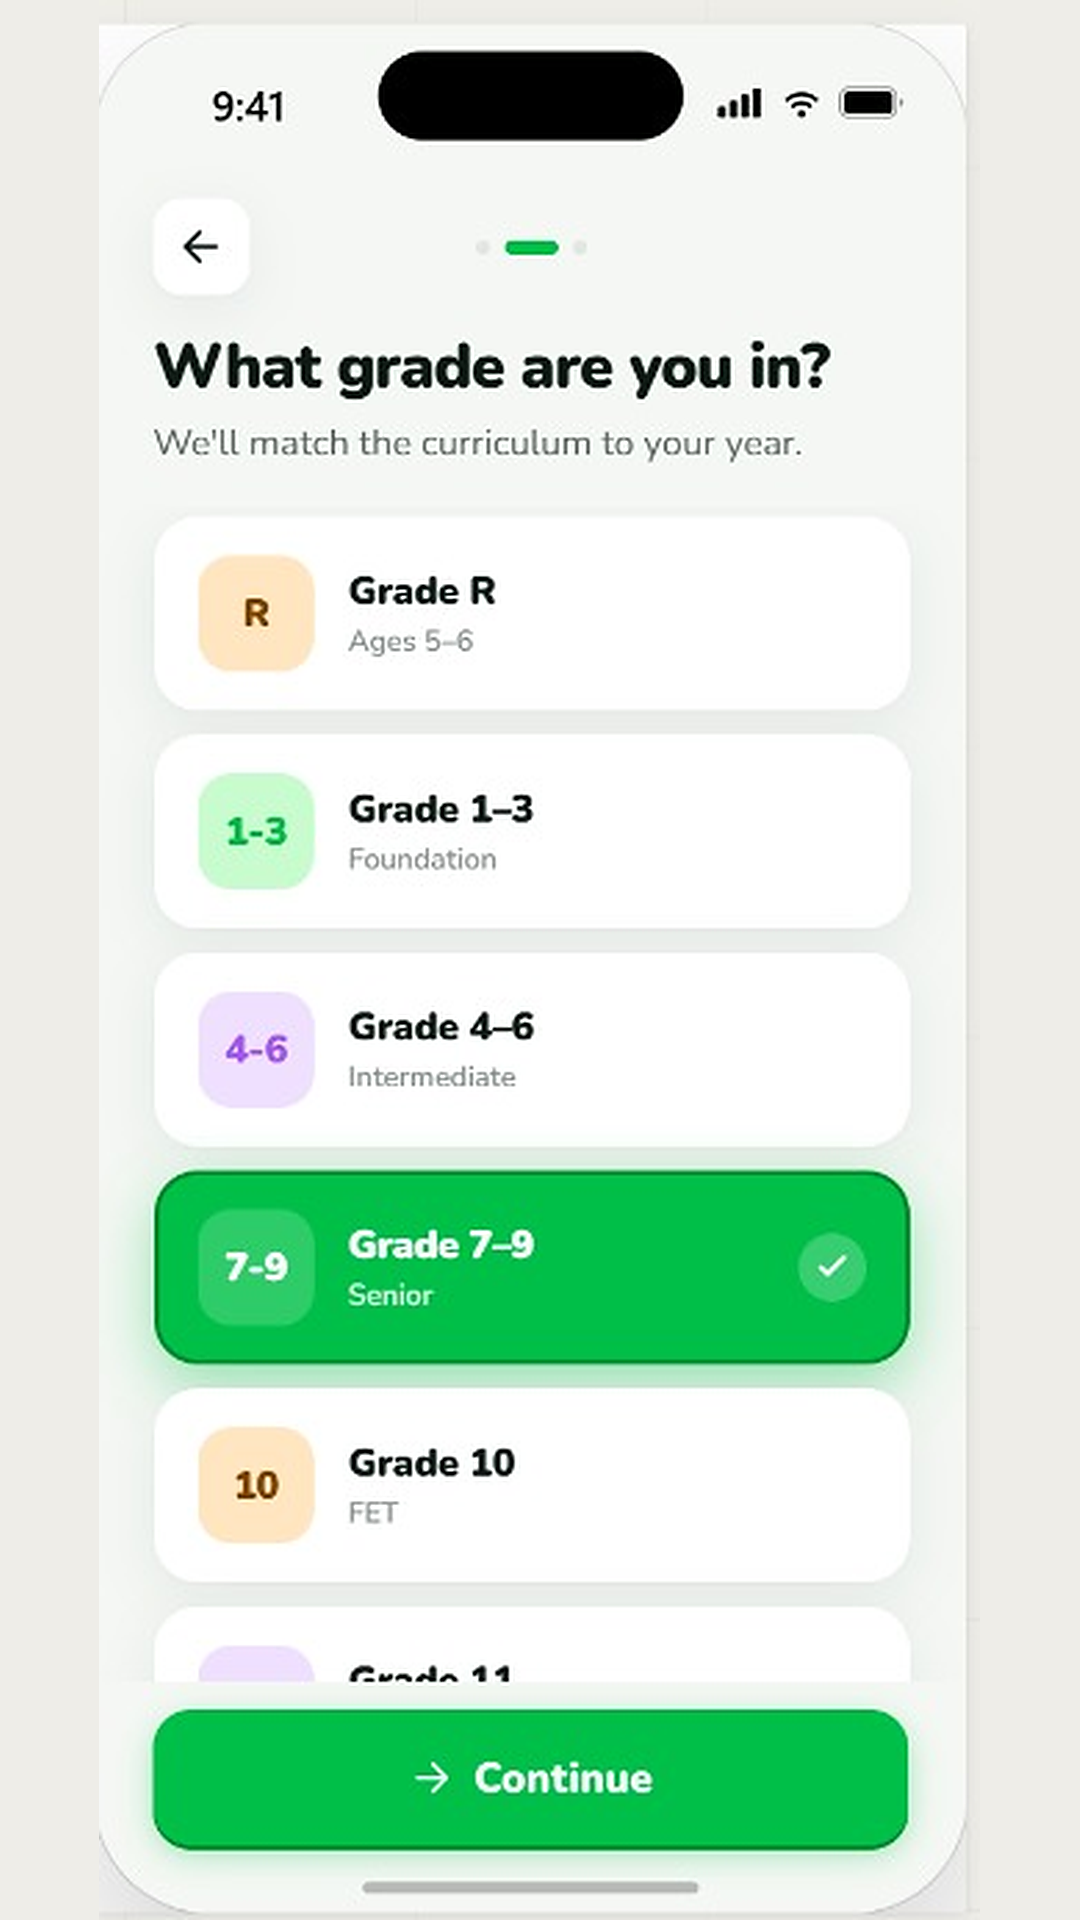
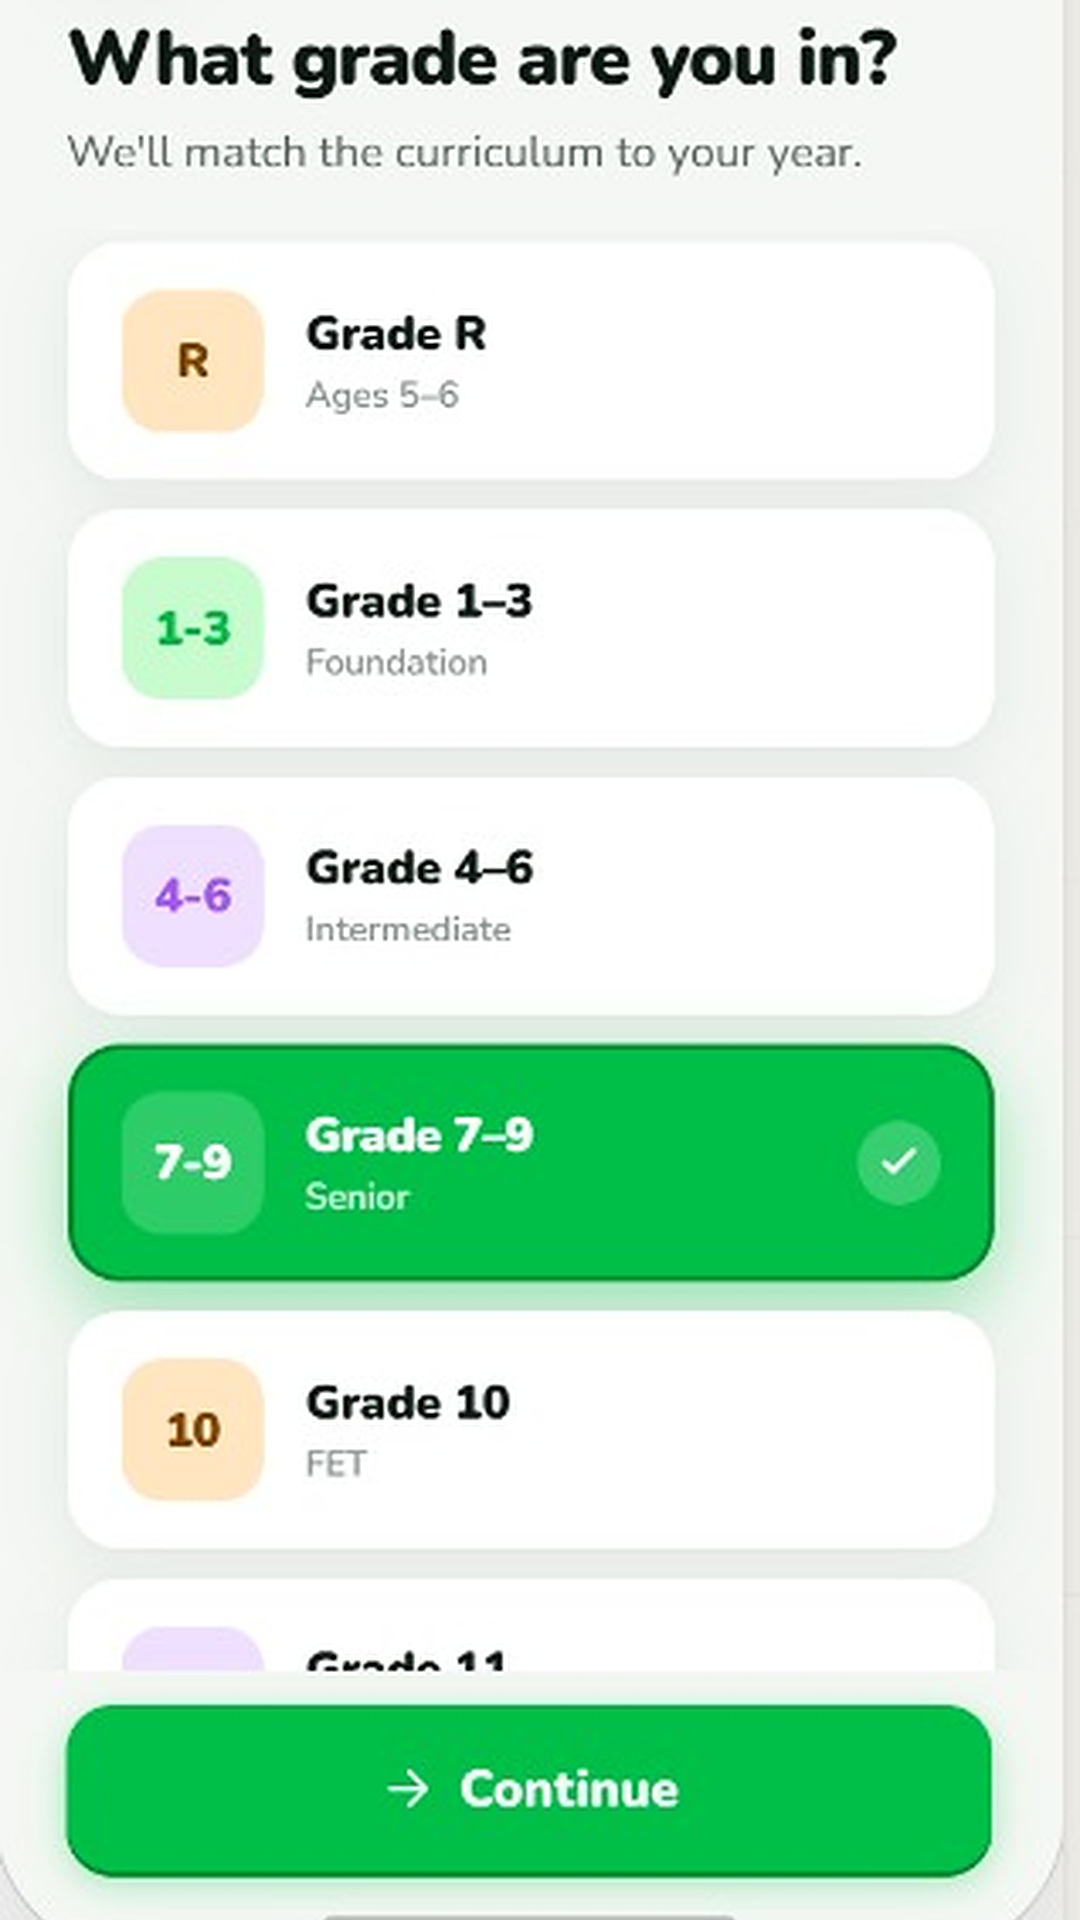
Switch screenshots to full-bleed crop, zero side margin
Replace the pillarbox padding with a cover-crop: each screenshot is
upscaled to fill the target canvas completely (no side bars) and the
vertical overflow is cropped, biased toward the top since these designs
run edge-to-edge at the bottom (nav bars/CTA buttons) but have disposable
space at the top (status bar/header). Per-screenshot crop bias was tuned
by eye so no heading, button, or nav bar is clipped.

Claude-Session: https://claude.ai/code/session_01Pg4GhhLi1rDuj5SCi8CG4j

diff --git a/UI/store/google-play/convert_screenshots.py b/UI/store/google-play/convert_screenshots.py
@@ -24,27 +24,39 @@ TARGETS = [
 SRC_FILES = [f"Screenshots ({i}).jpeg" for i in range(1, 9)]
 
 
-def process(src_path, target_w, target_h):
+# Per-screenshot override for how the vertical crop is split, as the
+# fraction taken from the top (status bar side) vs. the bottom (nav/button
+# side). Higher = more taken from the top. Tuned by eye per screenshot so
+# no header text or button/nav content gets clipped.
+TOP_CROP_BIAS = {
+    1: 1.0,
+    2: 0.9,
+    3: 1.0,
+    4: 1.0,
+    5: 1.0,
+    6: 1.0,
+    7: 1.0,
+    8: 1.0,
+}
+
+
+def process(src_path, target_w, target_h, top_bias):
     im = Image.open(src_path).convert("RGB")
 
-    # sample the screenshot's own background color (top-left corner, just
-    # inside the status bar) so the pillarbox bars blend in seamlessly
-    fill = im.getpixel((2, 2))
-
-    canvas = Image.new("RGB", (target_w, target_h), fill)
-
-    # Image.thumbnail() never enlarges, only shrinks - these source shots are
-    # much smaller than the target canvas, so scale up explicitly to fill it.
-    scale = min(target_w / im.width, target_h / im.height)
+    # Cover-fill: scale up so the image completely fills the target canvas
+    # (no side margins), then crop the overflow off the top/bottom.
+    scale = max(target_w / im.width, target_h / im.height)
     new_size = (round(im.width * scale), round(im.height * scale))
     fg = im.resize(new_size, Image.LANCZOS)
     # counteract the softness introduced by upscaling small source screenshots
     fg = fg.filter(ImageFilter.UnsharpMask(radius=1.5, percent=60, threshold=2))
 
-    paste_x = (target_w - fg.width) // 2
-    paste_y = (target_h - fg.height) // 2
-    canvas.paste(fg, (paste_x, paste_y))
-    return canvas
+    overflow_h = fg.height - target_h
+    crop_top = round(overflow_h * top_bias)
+    overflow_w = fg.width - target_w
+    crop_left = overflow_w // 2
+
+    return fg.crop((crop_left, crop_top, crop_left + target_w, crop_top + target_h))
 
 
 def main():
@@ -54,7 +66,7 @@ def main():
             out_dir = os.path.join(OUT_ROOT, folder)
             os.makedirs(out_dir, exist_ok=True)
             out_path = os.path.join(out_dir, f"screenshot_{idx}.png")
-            result = process(src_path, w, h)
+            result = process(src_path, w, h, TOP_CROP_BIAS[idx])
             result.save(out_path, format="PNG")
             print(f"{fname} -> {out_path} ({result.size[0]}x{result.size[1]})")
 

diff --git a/UI/store/google-play/README.md b/UI/store/google-play/README.md
@@ -13,14 +13,21 @@ All files are 24-bit PNG (no alpha channel), well under the 8 MB limit.
 
 ## How they were made
 
-The source screenshots are small (~320x700 px) and not natively 9:16, so each one was:
+The source screenshots are small (~320x700 px) and shot on a taller-than-16:9 phone
+(roughly 19.5:9), which is narrower than the 9:16 floor Google Play requires. To get full-bleed,
+zero-margin images (no pillarbox bars) each one was:
 
-1. Upscaled with Lanczos resampling to fit within the target canvas without cropping any UI.
-2. Centered on a solid-color background sampled from the screenshot's own top corner
-   (the app's off-white background), so the pillarbox bars blend in seamlessly.
+1. Upscaled with Lanczos resampling to completely cover the target canvas (scaled by width, so
+   there's no empty space on the sides).
+2. Cropped vertically to the exact target height. The crop is biased toward the top of the
+   shot (`TOP_CROP_BIAS` per screenshot in `convert_screenshots.py`) since the status bar and
+   decorative header space there is disposable, whereas the bottom of these designs is edge-to-
+   edge with nav bars/buttons and has almost no safe margin. Each bias was tuned by eye so no
+   heading, button, or nav bar is clipped.
 3. Given a light unsharp-mask pass to offset softness introduced by the upscale.
 
 Because the originals are low-resolution, the exported images are upscaled and won't be as
 sharp as a fresh capture straight from a device. For best results, recapture screenshots
-directly at 1080x1920 (or higher) and re-run `convert_screenshots.py` in this folder rather
-than relying on this upscaled set for production store listings.
+directly at 1080x1920 (or higher) on a 9:16 device/simulator and re-run
+`convert_screenshots.py` in this folder rather than relying on this upscaled/cropped set for
+production store listings.
